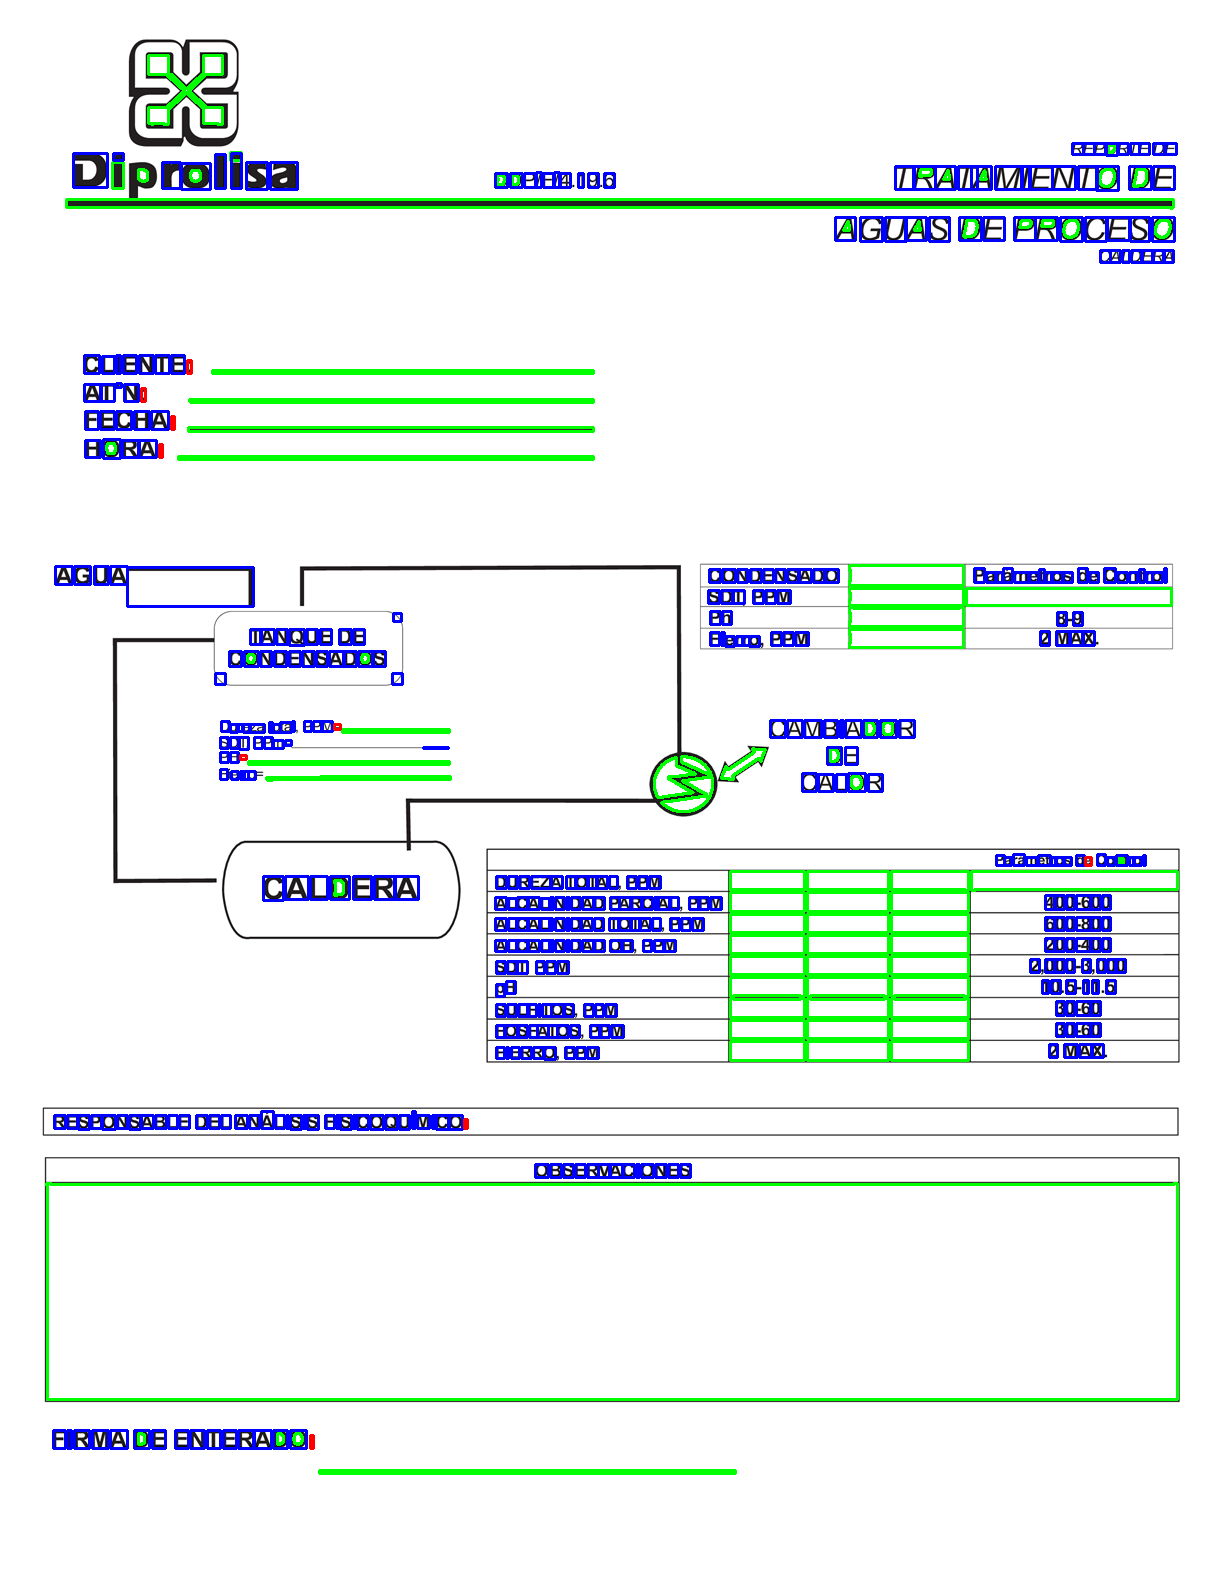
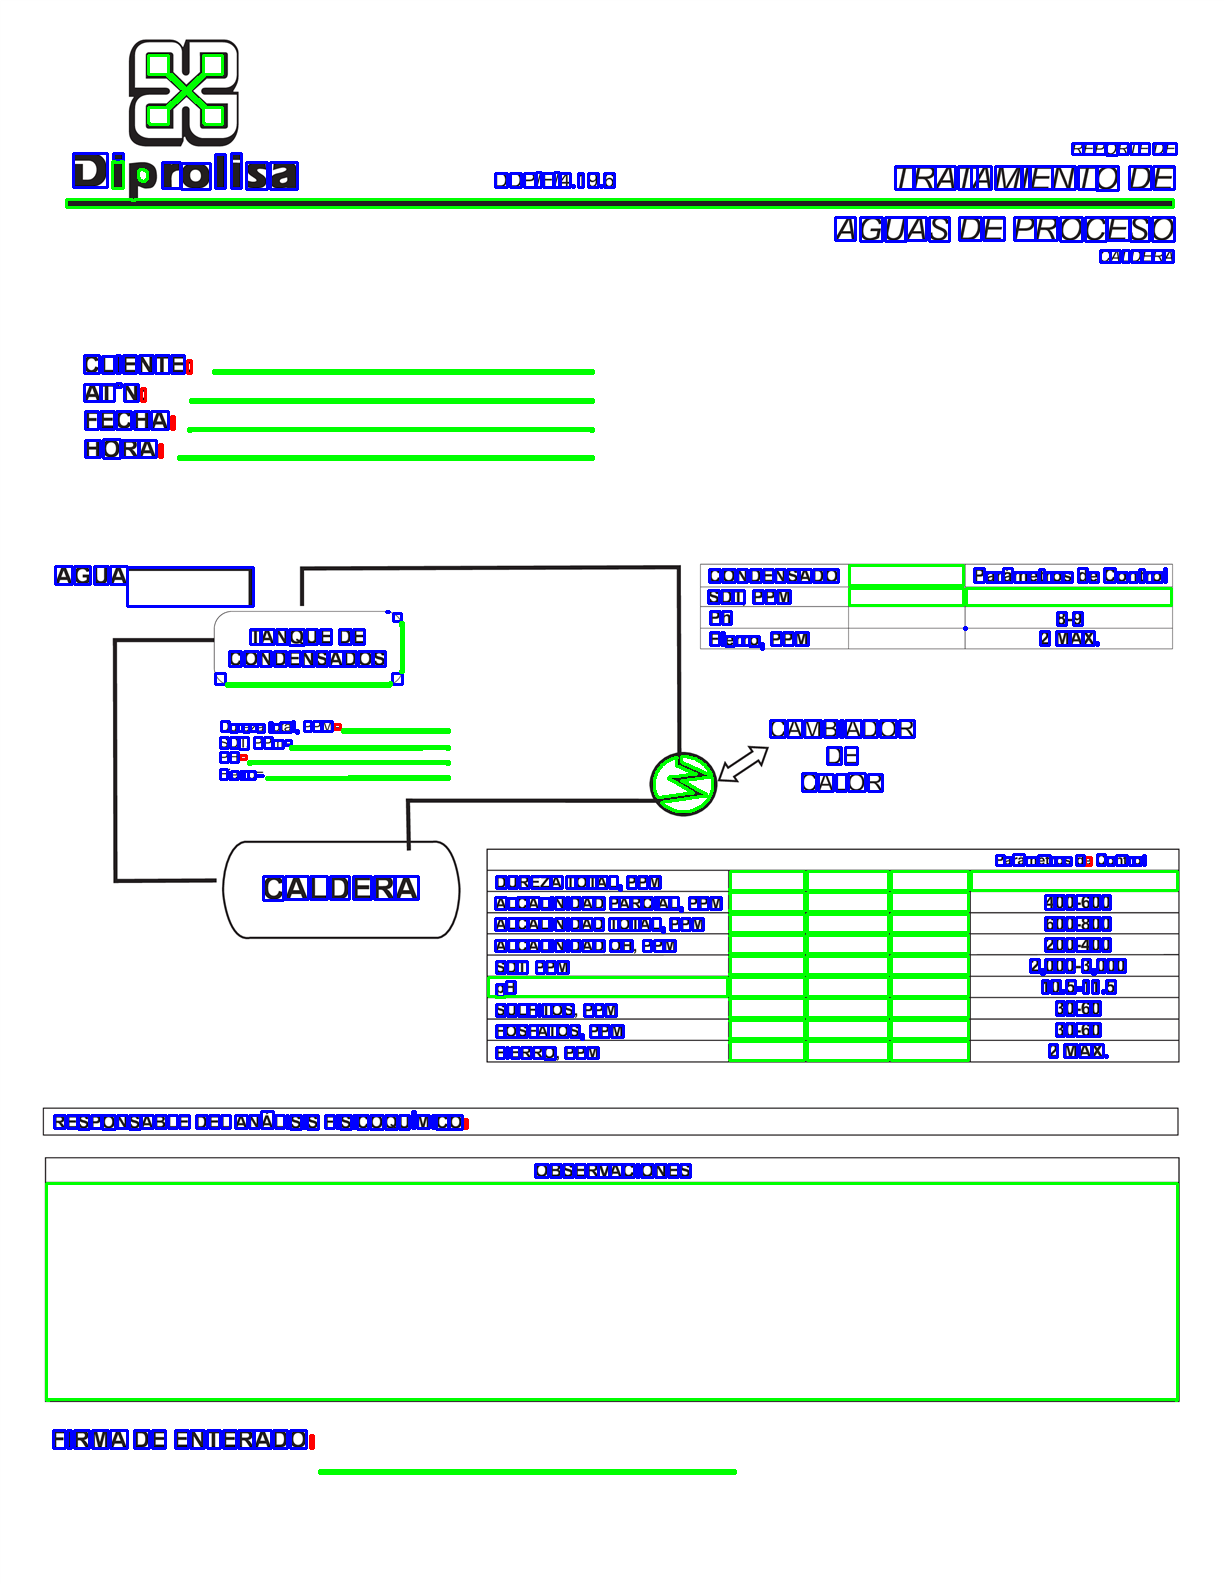
remove contours with "0" color items

diff --git a/FormReader/FormReader2.py b/FormReader/FormReader2.py
@@ -10,10 +10,10 @@ class Image_Data:
     def __init__(self, imgpath):
         # TODO: Make image skew detector
 
-        # self.img_pil = Image.open(imgpath)
-        # self.img_pil_gray = self.img_pil.convert('L')
+        self.img_pil = Image.open(imgpath)
+        self.img_pil_gray = self.img_pil.convert('L')
         self.img = cv2.imread(imgpath)
-        self.img_pil_gray = Image.fromarray(cv2.cvtColor(self.img, cv2.COLOR_BGR2GRAY))
+        # self.img_pil_gray = Image.fromarray(cv2.cvtColor(self.img, cv2.COLOR_BGR2GRAY))
         self.imgpath = imgpath
         self.height, self.width, self.channels = self.img.shape
 
@@ -35,8 +35,15 @@ class Image_Data:
         self.image, self.contours, self.hierarchy = cv2.findContours(thresh, cv2.RETR_TREE, cv2.CHAIN_APPROX_SIMPLE)
         cont_hierarchy = np.array(zip(self.contours, self.hierarchy[0][:, 2]))
         self.real_contours = cont_hierarchy[cont_hierarchy[:, 1] == -1][:, 0]
-        self.real_contours = self.get_array_size()
-        # self.real_contours = [contour for contour in self.real_contours if len(contour) <= 10]
+        # self.real_contours = self.get_array_size()
+        self.real_contours = [contour for contour in self.real_contours if len(contour) <= 10]
+
+    # def remove_extra_contours(self):
+    #     for contour in self.real_contours:
+    #         sample =
+    def remove_contours_with_chars(self):
+        pass
+
 
         # TODO: create max/min character array to see if current contours include characters
             # TODO: If the contour contains characters, they must be "NAME", "DATE", or "SIGNATURE"
@@ -97,12 +104,9 @@ class Image_Data:
             min_y, max_y = np.min(y), np.max(y)
             area = (max_x - min_x)*(max_y - min_y)
 
-            if area > 50:
 
-                sample = cv2.imread(self.imgpath)[min_y:max_y, min_x:max_x]
-                unique = np.unique(sample)
-                if 0 not in unique:
-                    contours_to_keep.append(i)
+            if area > 50:
+                contours_to_keep.append(i)
             elif np.abs(min_y - max_y) < 5 and np.abs(min_x - max_x) > 50:
                 contours_to_keep.append(i)
         return self.real_contours[contours_to_keep]

diff --git a/FormReader/script.py b/FormReader/script.py
@@ -10,6 +10,8 @@ test.remove_chars()
 test.extract_contours()
 # test.text_from_contours()
 test.add_contours()
+# test.get_img_string()
+# test.remove_contours_with_chars()
 test.get_final_img()
 print 'end time %s' % (datetime.datetime.now())
 
